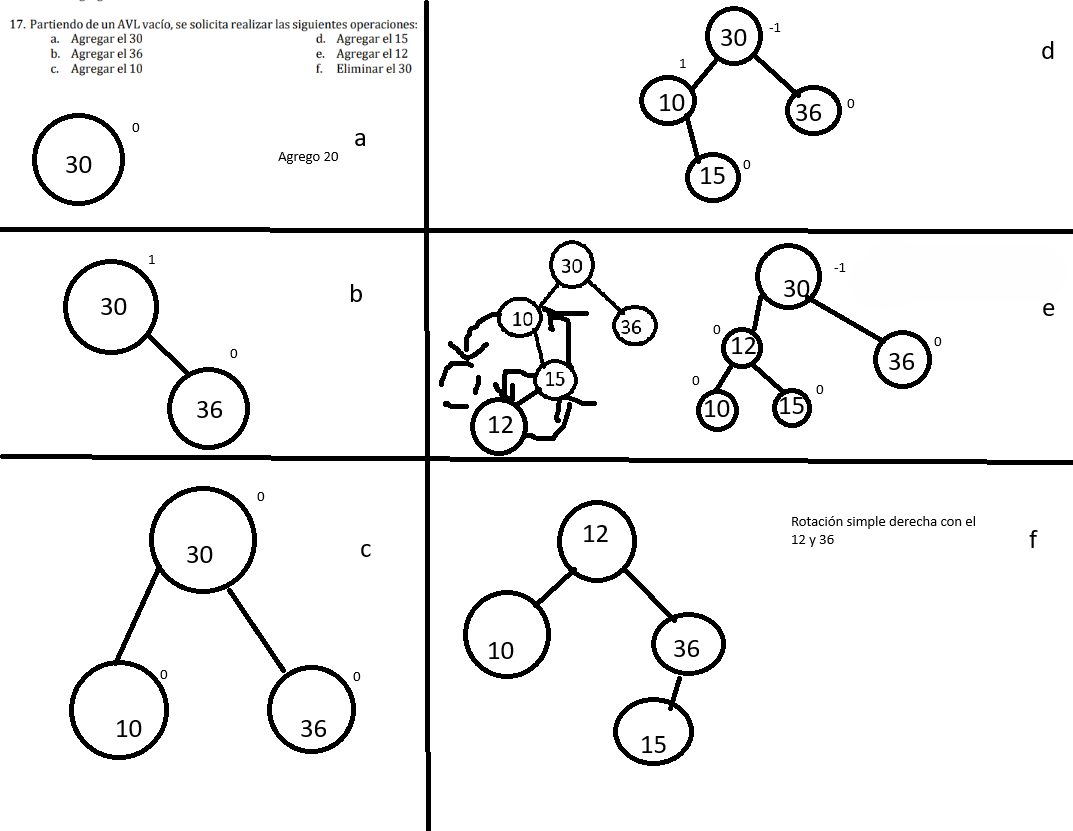
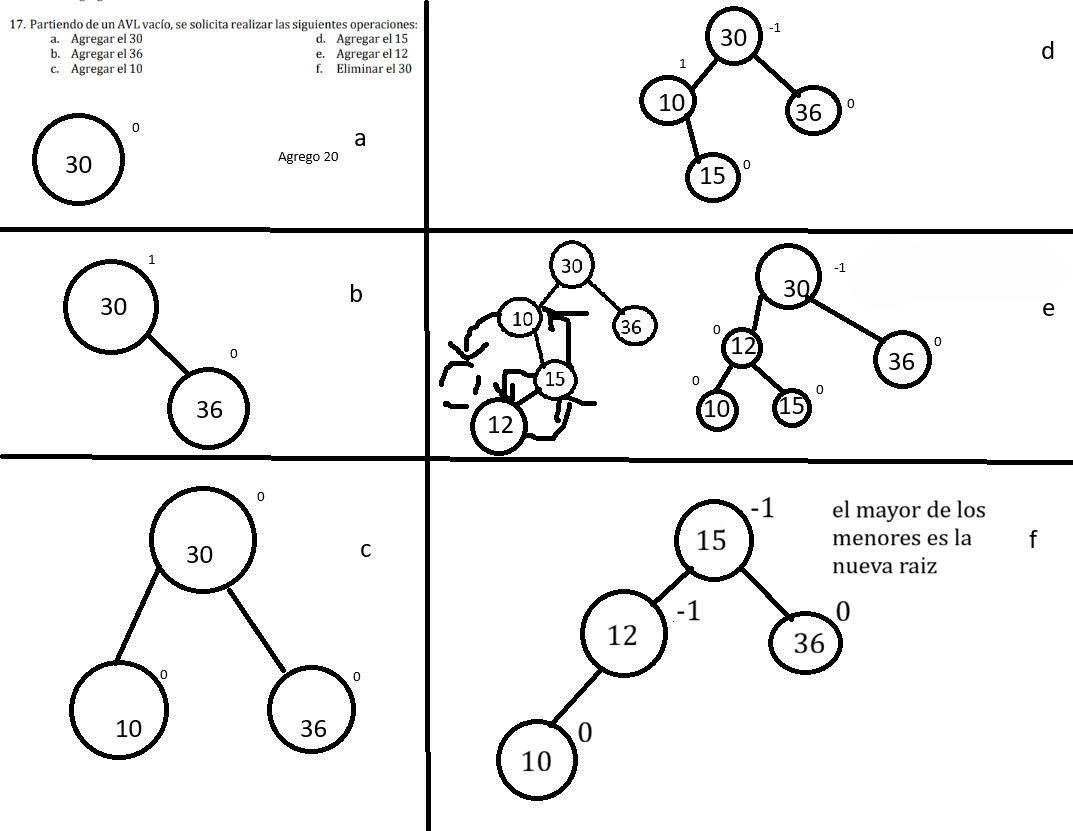
arreglaciones

Changed region(s): [[0.4306, 0.6017, 0.9226, 0.9627]]

diff --git a/src/Ejercicio15/Uso.java b/src/Ejercicio15/Uso.java
@@ -27,37 +27,31 @@ public class Uso {
 
 	}
 
-	private static void funcion(GrafoTDA grafo, int numero) { // complejidad polinomica
+	private static int funcion(GrafoTDA grafo, int numero) { // complejidad polinomica
 		// TODO Auto-generated method stub
-	    ConjuntoTDA verticesOriginales = grafo.vertices();
-	    ConjuntoTDA vertices = new Conjunto();
-	    vertices.inicializarConjunto();
+	    ConjuntoTDA vertices = grafo.vertices();
+	   
 
-	    while (!verticesOriginales.conjuntoVacio()) {
-	        int v = verticesOriginales.elegir();
-	        verticesOriginales.sacar(v);
-	        vertices.agregar(v);
-	    }
+	    
 	    int contador = 0;
 		while(!vertices.conjuntoVacio())
 		{
 			int vertice= vertices.elegir();
 			vertices.sacar(vertice);
-			if (vertice == numero) 
+			if (vertice != numero) 
 			{
-				continue;
-			}
-			if(grafo.existeArista(vertice, numero))
-			{
-				contador++;
-			}
-			if (grafo.existeArista(numero, vertice))
-			{
+				if(grafo.existeArista(vertice, numero))
+				{
 				contador--;
+				}
+				if (grafo.existeArista(numero, vertice))
+				{
+				contador++;
+				}
 			}
-			verticesOriginales.agregar(vertice);
 		}
 		System.out.print("El vertice "+numero+" es de grado: "+ contador);
+		return contador;
 	}
 
 }

diff --git a/src/Ejercicio14/Uso.java b/src/Ejercicio14/Uso.java
@@ -29,20 +29,12 @@ public class Uso {
 		ConjuntoTDA puentes = new Conjunto();
 	    puentes.inicializarConjunto();
 
-	    ConjuntoTDA verticesOriginales = grafo.vertices();
-	    ConjuntoTDA vertices = new Conjunto();
-	    vertices.inicializarConjunto();
+	    ConjuntoTDA vertices = grafo.vertices();
 
-	    while (!verticesOriginales.conjuntoVacio()) {
-	        int v = verticesOriginales.elegir();
-	        verticesOriginales.sacar(v);
-	        vertices.agregar(v);
-	    }
 
 	    while (!vertices.conjuntoVacio()) {
 	        int vertice = vertices.elegir();
 	        vertices.sacar(vertice);
-	        verticesOriginales.agregar(vertice);
 
 	        if (grafo.existeArista(numero1, vertice) && grafo.existeArista(vertice, numero2)) {
 	            puentes.agregar(vertice);

diff --git a/src/ejercicio13/Uso.java b/src/ejercicio13/Uso.java
@@ -34,9 +34,10 @@ public class Uso {
 	                suma = suma + 1;
 	            }
 	        }
-
-	        suma = suma + funcion(arbol.hijoIzq());
-	        suma = suma + funcion(arbol.hijoDer());
+	        else {
+	        	suma = suma + funcion(arbol.hijoIzq());
+	        	suma = suma + funcion(arbol.hijoDer());
+	        }
 	    }
 
 	    return suma;